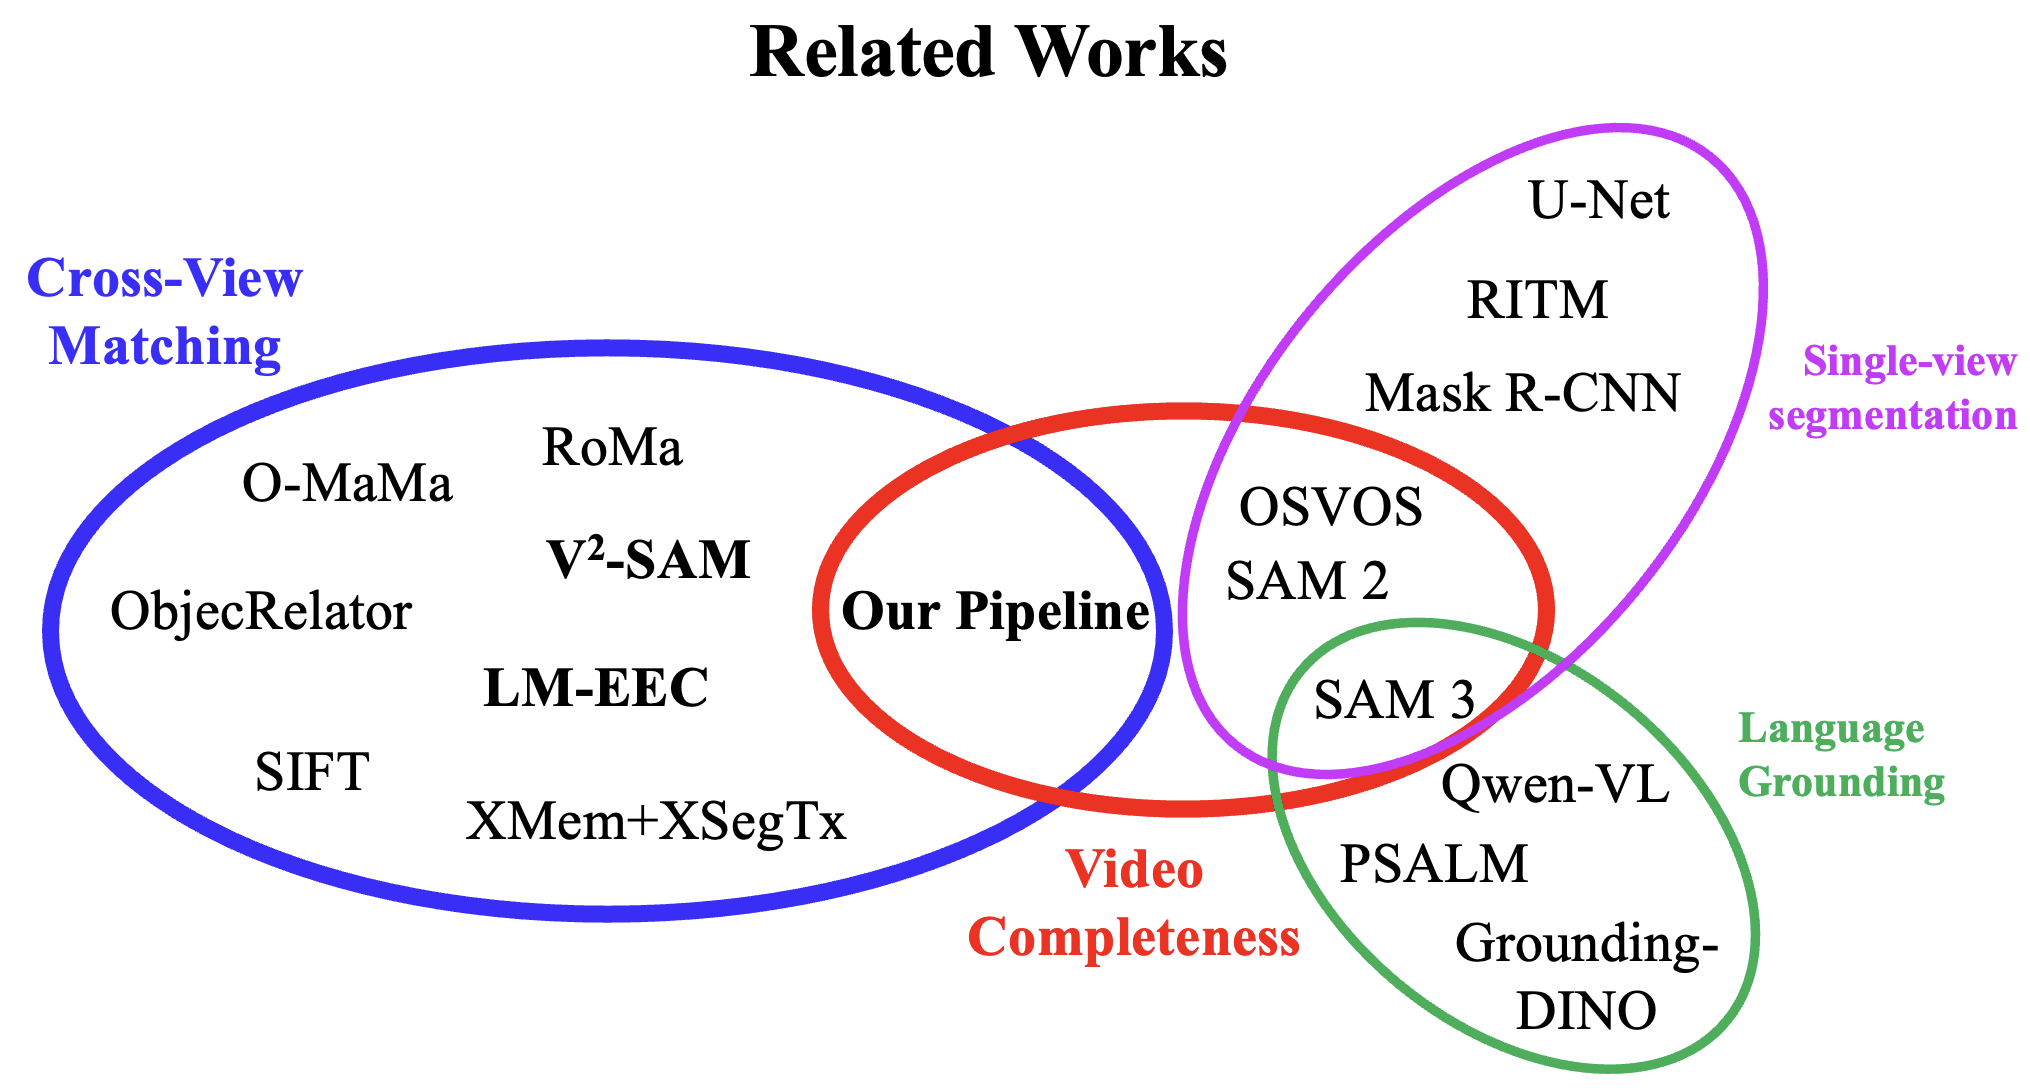
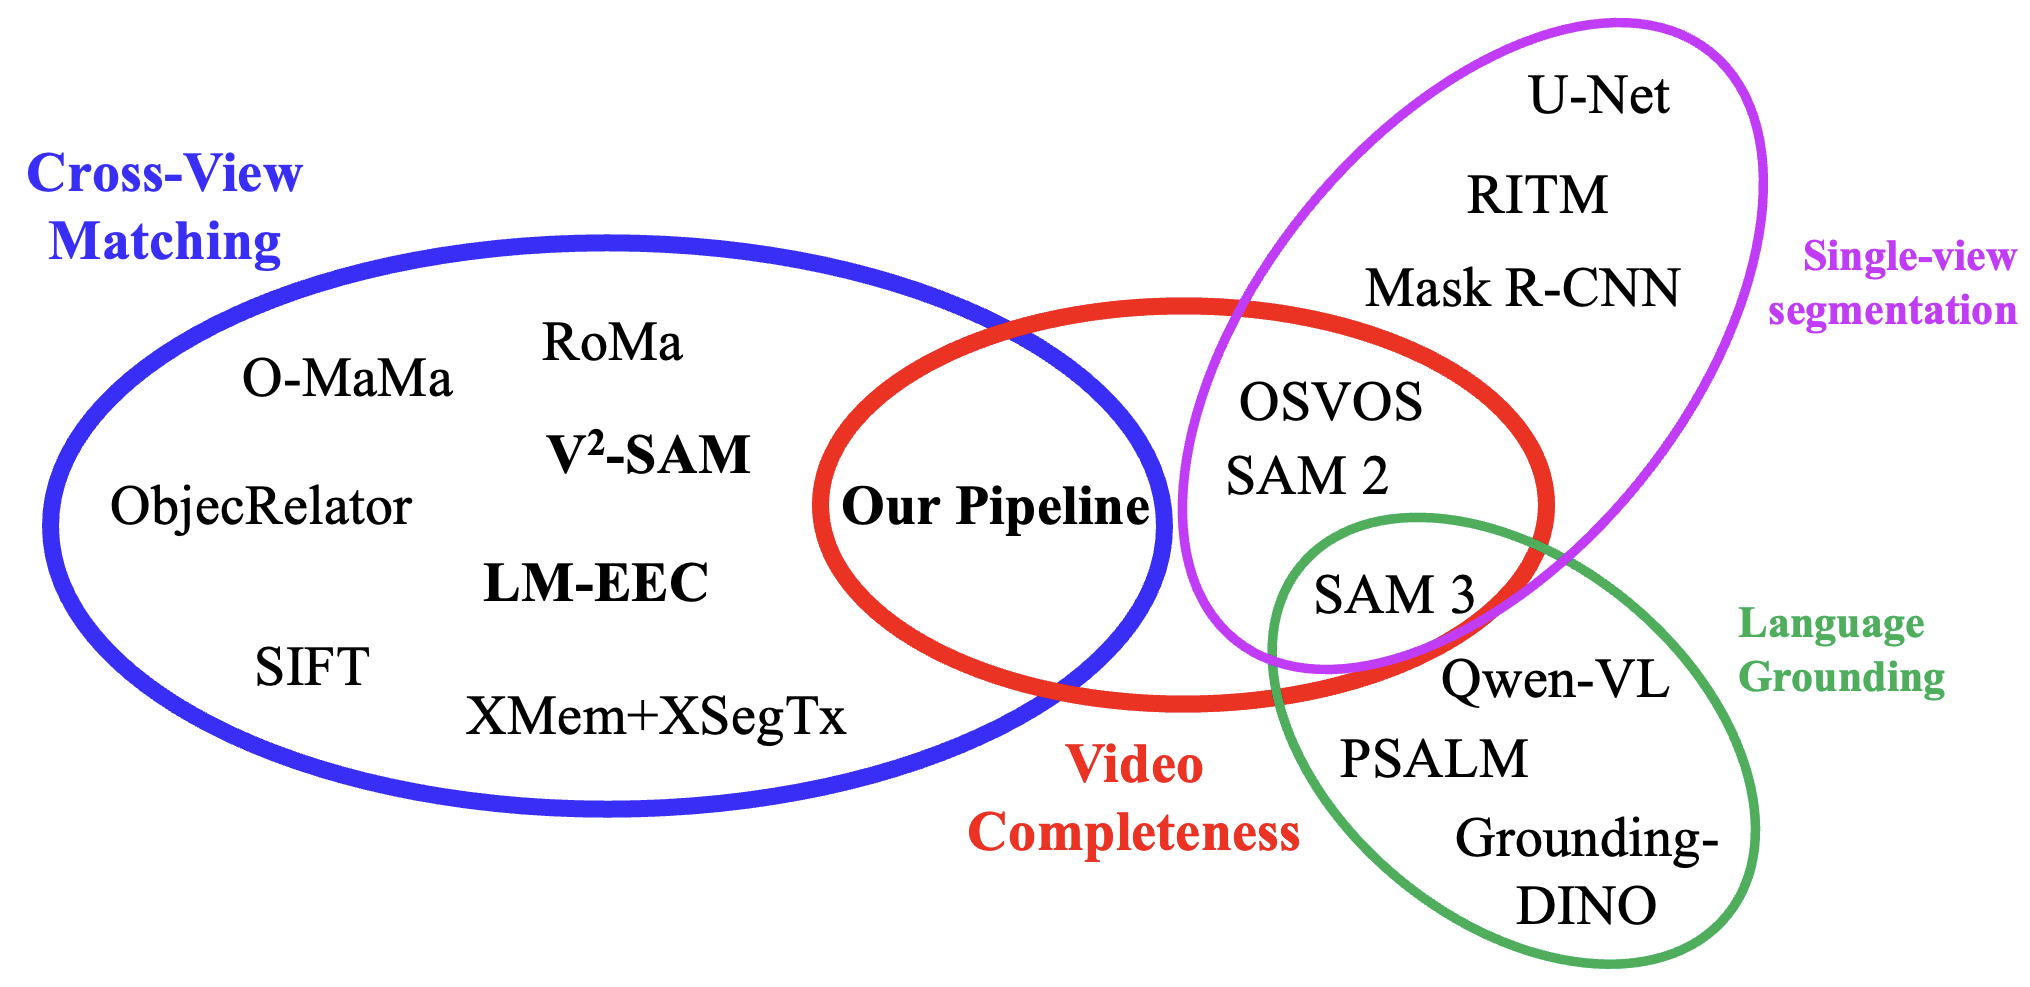
split related works and task formulation

diff --git a/presentation/main.tex b/presentation/main.tex
@@ -243,16 +243,34 @@ Object Video Tracking for Cross-View Object Correspondence}
 % Slide 9 — Task formulation and the key insight
 % =====================================================================
 \begin{frame}{Task formulation}
+  \textbf{Input:} a masklet in the source view $S$ — a binary mask for each annotated frame:
+  \[
+    \bigl\{ M^\tau_S \bigr\}_{\tau \in \mathcal{T}}, \qquad M^\tau_S \in \{0,1\}^{H \times W}
+  \]
+  \textbf{Output:} a mask for \emph{every} destination frame:
+  \[
+    \hat{M}^\tau_D \quad \forall\, \tau \in \{1,\ldots,T\}
+  \]
+  \medskip
+  Two orthogonal sub-problems:
   \begin{itemize}
-    \item Input: object mask track in the source view. Output: mask for every destination frame.
-    \item Two orthogonal sub-problems: (a) cross-view matching vs. (b) temporal completeness.
-    \item Our approach: language bridge on (a), SAM 2 video tracking for (b).
+    \item \textbf{Cross-view transfer} — bridge the viewpoint gap. \emph{Hard.}
+    \item \textbf{Temporal completeness} — cover every frame. \emph{Solved by trackers.}
   \end{itemize}
-  \begin{center}
-    \includegraphics[width=0.6\textwidth]{latex/imgs/ch2/related-works.png}
-  \end{center}
+  \medskip
+  Strategy: language bridge for transfer; SAM 2 for completeness.
 \end{frame}
 \note{(~50s) Now the method. If you remember one idea from this talk, let it be this one. The input is an object mask track in the source view; the output is a mask for every destination frame. This splits into two orthogonal sub-problems. One is cross-view transfer, getting the object across the viewpoint gap, and that is hard. The other is temporal completeness, covering every frame, and that one is essentially solved by trackers. So my strategy is simple. I spend all my effort on transfer, through language, and I delegate completeness to SAM 2. Every design choice downstream follows from this split.}
+
+% =====================================================================
+% Slide 9b — Related works
+% =====================================================================
+\begin{frame}{Related works}
+  \begin{center}
+    \includegraphics[width=0.82\textwidth]{latex/imgs/ch2/related-works.png}
+  \end{center}
+\end{frame}
+\note{}
 
 % =====================================================================
 % Slide 10 — Pipeline overview
